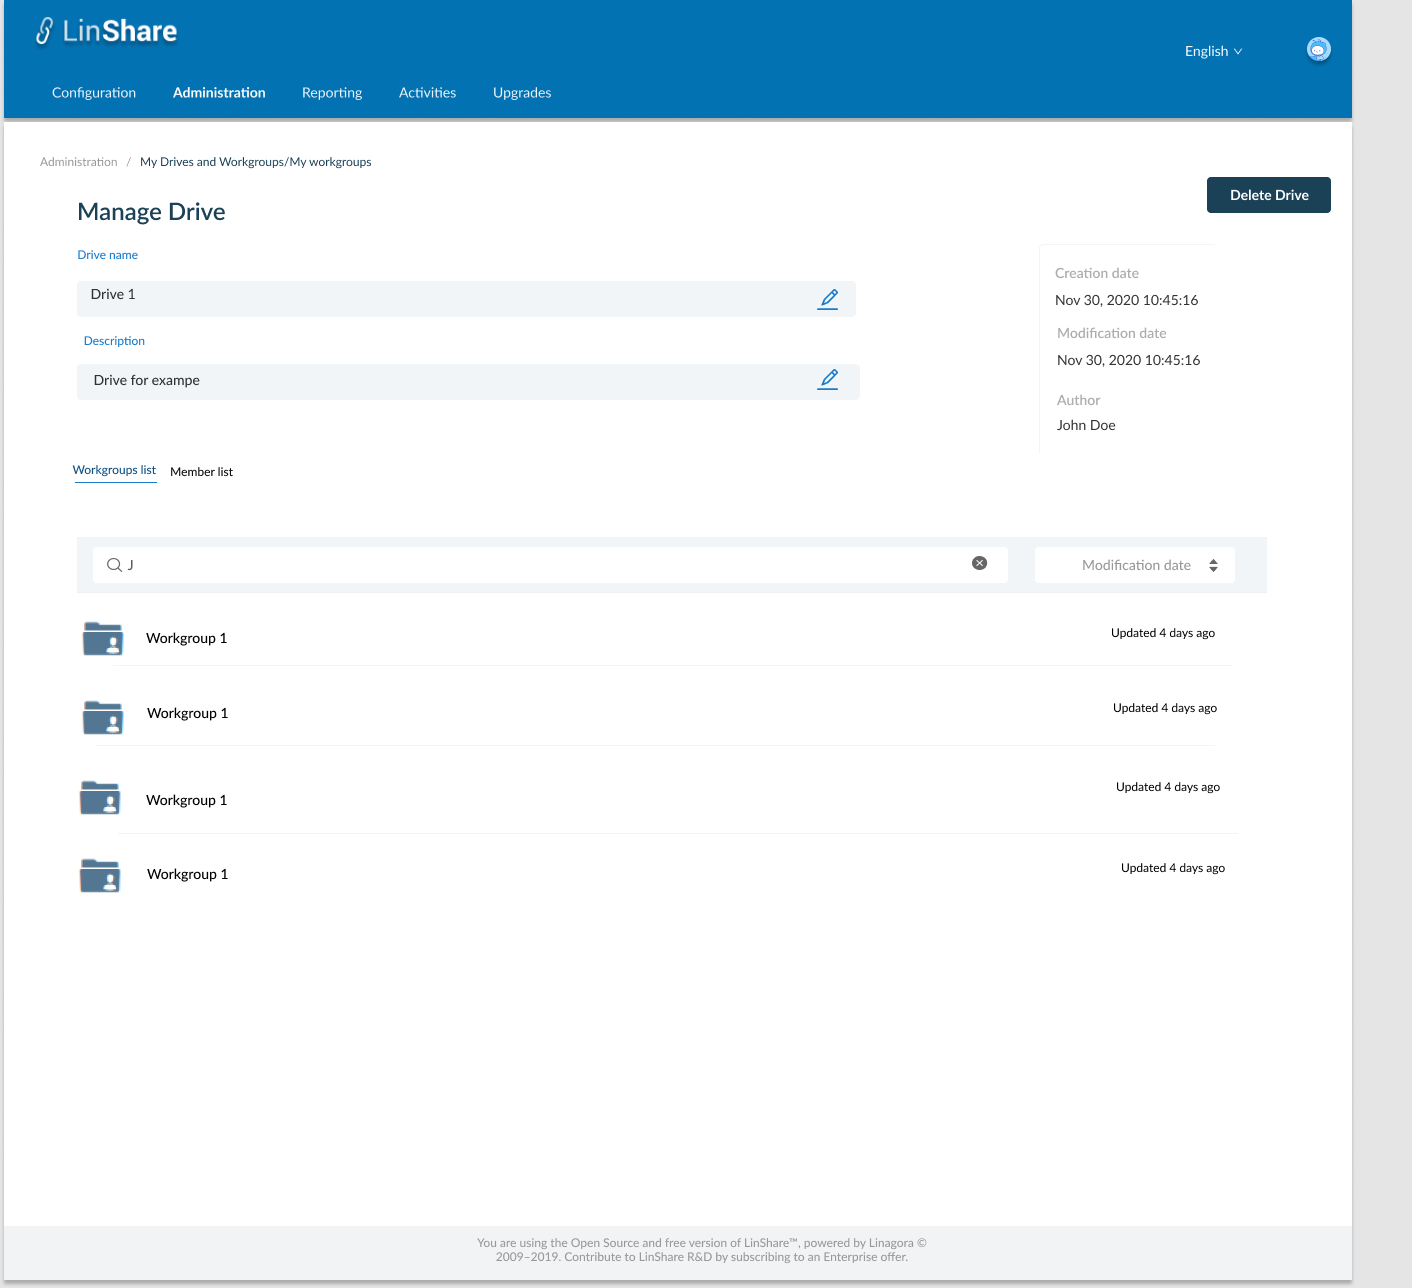
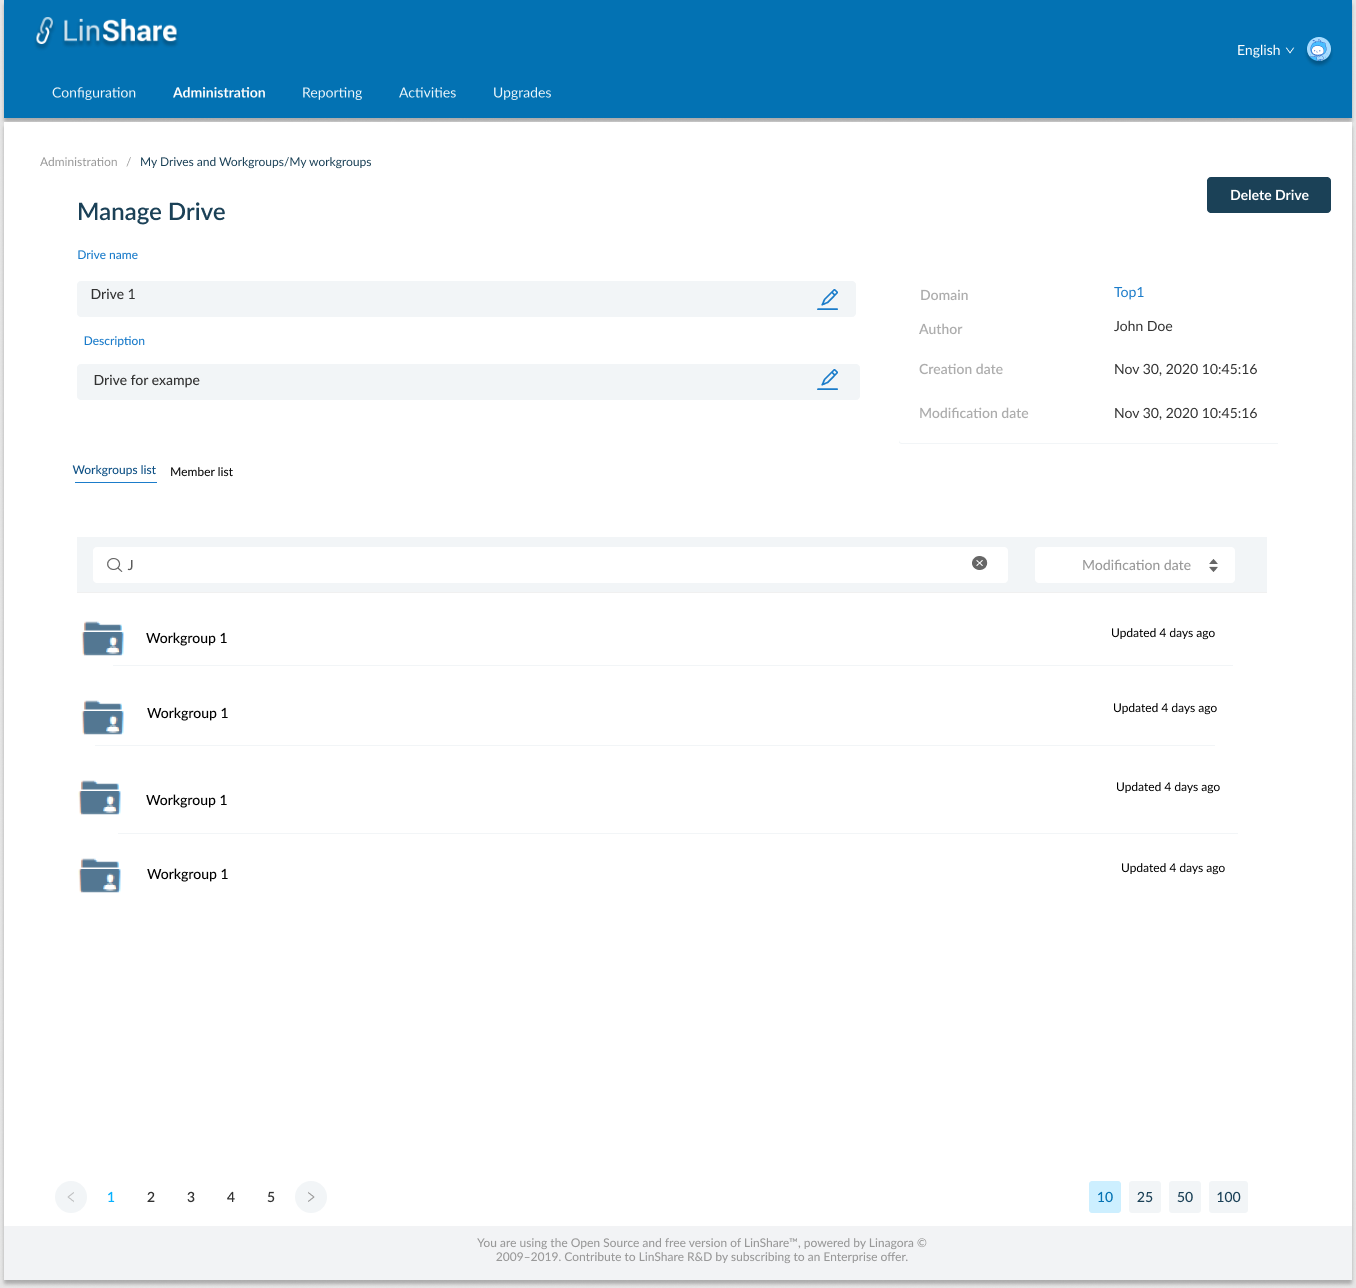
Update pagination Update story 04 05 06 admin can see domain of a workgroup/drive

diff --git a/documentation/EN/epics/new-admin-portal/story-03-admin-manage-workgroup.md b/documentation/EN/epics/new-admin-portal/story-03-admin-manage-workgroup.md
@@ -26,17 +26,18 @@
 - The Manage workgroup page will include:
    - Workgroup's name 
    - "Delete workgroup" button:
-      - When i click on this button, there will be a confirmation message.
-      - When i choose Yes to confirm, the workgroup will be removed. Now the workgroup members cannot find that workgroup in User app.
-      - I will see a toast notification and back to the Workgroups/Drive list screen. 
+	  - When i click on this button, there will be a confirmation message.
+	  - When i choose Yes to confirm, the workgroup will be removed. Now the workgroup members cannot find that workgroup in User app.
+	  - I will see a toast notification and back to the Workgroups/Drive list screen. 
    - On the right part i can see uneditable fields including: 
       - Drive: The link to parent Drive that contain current workgroup. I can click on this link to go to Manage drive . If this workgroup is standalone, the text "None" is displayed.
       - Creation date
       - Modification date 
       - Author: Creator of workgroup
+      - Domain: The link displays domain name of the current workgroup. When I click on this link, the domain detail page will be opened. 
    - On the left part i can see the editable fields including:
-      - Worgkroup name: Text field. This field cannot be blank or contains special characters. When click icon Edit, i can change the name and click Save icon, if the workgroup name is invalid, i can see an error message.
-      - Description: Display workgroup's desctiption. When i click on icon Edit, i can update the field and click save icon. 
+	  - Worgkroup name: Text field. This field cannot be blank or contains special characters. When click icon Edit, i can change the name and click Save icon, if the workgroup name is invalid, i can see an error message.
+	  - Description: Display workgroup's desctiption. When i click on icon Edit, i can update the field and click save icon. 
    
 **UC2.Manage member list of a standalone workgroup**
 - In Manage workgroup screen, i can see the list of user: 
@@ -61,6 +62,7 @@
 - If member is a drive member, i can only update the role and cannot delete the member, so there is no Delete icon
 - If member is external member, i can both update member role and Delete that member
 - When i add a member to the workgroup, this member is an external member
+- The member list is paginated and the default number of displayed items is 25, I can change this number at the bottom of page
 
 [Back to Summary](#summary)
 

diff --git a/documentation/EN/epics/new-admin-portal/story-04-admin-manage-a-Drive-in-admin-portal.md b/documentation/EN/epics/new-admin-portal/story-04-admin-manage-a-Drive-in-admin-portal.md
@@ -27,6 +27,7 @@
       - Creation date
       - Modification date 
       - Author: Creator of the Drive
+      - Domain: The link displays domain name of the current workgroup. When I click on this link, the domain detail page will be opened
    - On the left part i can see the editable fields including:
       - Drive's name: Text field. This field cannot be blank or contains special characters. When click icon Edit, i can change the name and click Enter to Save, if the name is invalid, i can see an error message. If the name is valid, the field will be updated. 
       - Description: a text field displaying current Drive's desctiption. When i click on icon Edit, i can change the name and click Enter to Save. This field can be blank. 

diff --git a/documentation/EN/epics/new-admin-portal/story-35-admin-view-mime-policies-list.md b/documentation/EN/epics/new-admin-portal/story-35-admin-view-mime-policies-list.md
@@ -53,9 +53,11 @@
 
 - I can sort by columns: Name, Read only, Domain, Creation date, Modification date
 - Default sort is last modification date
+- The mime policies list is paginated and the default number of displayed items is 25, I can change this number at the bottom of page
 - I can see a search bar and typing in, the system will search by Mime policy's name and display corresponding result in the table below
 - When i click button "Create", the screen Create new mime policy screen will be opened.
 - If i log-in as nested admin, i can only see the domain tree that contains only my nested domain and see the  mime policies list of my nested domain
+
 [Back to Summary](#summary)
 
 ## UI Design

diff --git a/documentation/EN/epics/new-admin-portal/story-29-admin-view-drive-filter-list.md b/documentation/EN/epics/new-admin-portal/story-29-admin-view-drive-filter-list.md
@@ -38,6 +38,7 @@
    - Action
 - I can sort by each column: Name, Type, Creation date, Modification date
 - Default sort is last modification date
+- The drive filter list is paginated and the default number of displayed items is 25, I can change this number at the bottom of page
 - In Action column, when i click on thee-dots button, i can see the drop-down list: Duplicate, Edit, Delete, See associated domains. 
 - I can see a search bar and typing in, the system will search by filter name and display corresponding result in the table below
 - When i click button "Create", i am navigated to screen Drive filter creation. 

diff --git a/documentation/EN/epics/new-admin-portal/story-25-admin-view-group-filter-list.md b/documentation/EN/epics/new-admin-portal/story-25-admin-view-group-filter-list.md
@@ -38,6 +38,7 @@
    - Action
 - I can sort by each column: Name, Type, Creation date, Modification date
 - Default sort is last modification date
+- The group filter list is paginated and the default number of displayed items is 25, I can change this number at the bottom of page
 - In Action column, when i click on thee-dots button, i can see the drop-down list: Duplicate, Edit, Delete, See asscociated domains 
 - I can see a search bar and typing in, the system will search by filter name and display corresponding result in the table below
 - When i click button "Create", I am navigated to LDAP filter creation screen.

diff --git a/documentation/EN/epics/new-admin-portal/story-37-admin-view-welcome-message-list.md b/documentation/EN/epics/new-admin-portal/story-37-admin-view-welcome-message-list.md
@@ -54,6 +54,7 @@
 
 - I can sort by columns: Name, Read only, Domain, Creation date, Modification date
 - Default sort is last modification date
+- The welcome messages list is paginated and the default number of displayed items is 25, I can change this number at the bottom of page
 - I can see a search bar and typing in, the system will search by welcome message's name and display corresponding result in the table below
 - When i click button "Create", the screen Create new welcome message screen will be opened.
 - If i log-in as nested admin, i can only see the domain tree that contains only my nested domain and see the welcome message list of my nested domain

diff --git a/documentation/EN/epics/new-admin-portal/story-05-admin-view-workgroup-list-inside-a-drive.md b/documentation/EN/epics/new-admin-portal/story-05-admin-view-workgroup-list-inside-a-drive.md
@@ -24,6 +24,7 @@
 - I click on a Drive in the list, the screen Manage Drives is opened. 
 - Under Drive information part, i can see 2 tabs, and the First one is Workgroups list, including all workgoups created inside this Drive
 - Each role represents a workgroup with Workgroup icon, Workgroup name and modification date. 
+- The workgroup list is paginated and the default number of displayed items is 25, I can change this number at the bottom of page
 - The default order of worksgroup is last modification time.
 - I can change the sort criteria by selecting from drop-down list: Modification date, Creation date, Name 
 - Search bar:

diff --git a/documentation/EN/epics/new-admin-portal/story-06-admin-manage-member-list-of-a-drive.md b/documentation/EN/epics/new-admin-portal/story-06-admin-manage-member-list-of-a-drive.md
@@ -50,7 +50,7 @@
    - Default workgroup role: Display current default workgroup role. When i click icon Edit, there will be a popup, in which i can choose another role from drop-down list and a check box to override the new role for all existing workgroups inside of Drive
 - I click on icon Delete, there will be a confirmation popup
 - If i choose Yes, that member will be removed out of Drive and all workgroups inside. 
-   
+- The member list is paginated and the default number of displayed items is 25, I can change this number at the bottom of page
 #### Postconditions
 
 

diff --git a/documentation/EN/epics/new-admin-portal/story-39-admin-view-domain-policies-list.md b/documentation/EN/epics/new-admin-portal/story-39-admin-view-domain-policies-list.md
@@ -39,6 +39,7 @@
 
 - I can sort by columns: Name, Creation date, Modification date
 - Default sort is last modification date
+- The domain policies list is paginated and the default number of displayed items is 25, I can change this number at the bottom of page
 - I can see a search bar and typing in, the system will search by Domain policy's name and display corresponding result in the table below
 - When i click on column name "Assign",there will be a help text message. 
 - When i click button "Create", the screen Create new domain policy screen will be opened.

diff --git a/documentation/EN/epics/new-admin-portal/story-22-admin-view-user-filter-list.md b/documentation/EN/epics/new-admin-portal/story-22-admin-view-user-filter-list.md
@@ -41,6 +41,7 @@
 - In Action column, when i click on thee-dots button, i can see the drop-down list: Duplicate, Edit, Delete
 - I can see a search bar and typing in, the system will search by fiter name and display corresponding result in the table below
 - When i click button "Create", i can see the drop-down list: LDAP filters, Twake filters
+- The user filter list is paginated and the default number of displayed items is 25, I can change this number at the bottom of page
 
 [Back to Summary](#summary)
 

diff --git a/documentation/EN/epics/new-admin-portal/story-20-admin-view-remote-servers-list.md b/documentation/EN/epics/new-admin-portal/story-20-admin-view-remote-servers-list.md
@@ -37,6 +37,7 @@
 - In Action column, when i click on thee-dots button, i can see the drop-down list: Duplicate, Edit, Delete
 - I can see a search bar and typing in, the system will search by server name and display corresponding result in the table below
 - When i click button "Create", i can see the drop-down list: LDAP connection, Twake connection
+- The remote server list is paginated and the default number of displayed items is 25, I can change this number at the bottom of page
 
 [Back to Summary](#summary)
 
